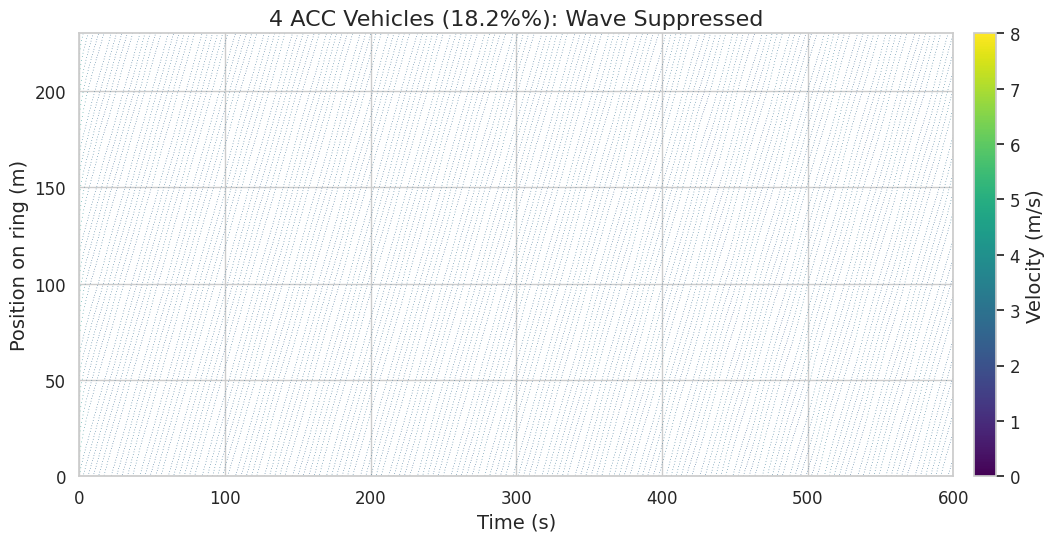
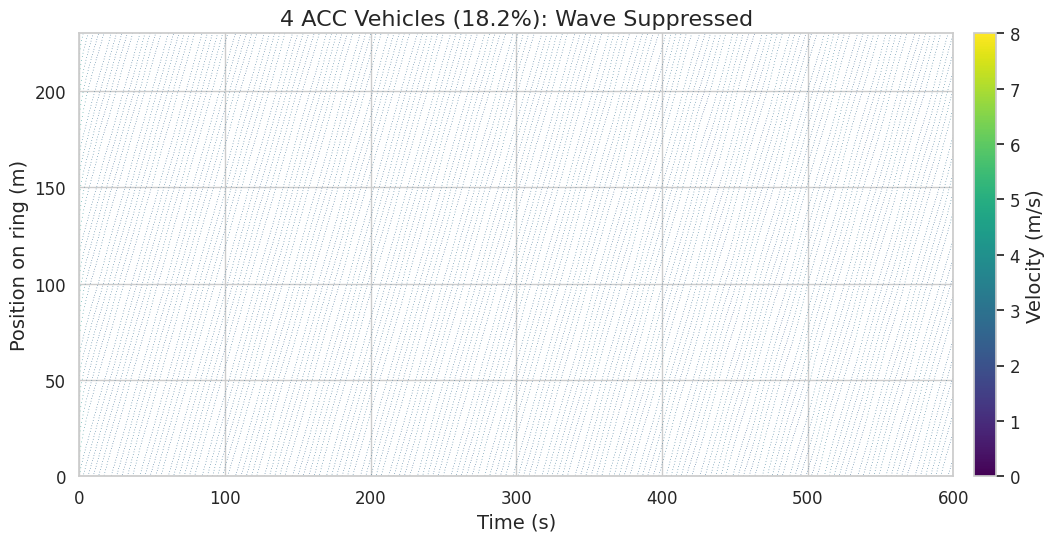
Rewrite phantom-jams summary to reflect final reviewed paper
Update headline to multi-seed figures (88% reduction), add critical chain
length explanation, sensor delay findings, RL comparison, code link.

Changed region(s): [[0.2429, 0.0, 0.7287, 0.059]]

diff --git a/content/hdr/results/phantom-jams/index.md b/content/hdr/results/phantom-jams/index.md
@@ -1,8 +1,8 @@
 ---
 title: "Four Smart Cars Dissolve a Phantom Traffic Jam"
-date: 2026-04-09
+date: 2026-04-10
 weight: 2
-blurb: "Phantom traffic jams form with no crash or obstacle -- just human overreaction rippling backward through a chain of drivers. We found that replacing just four out of 22 vehicles with smart cruise control eliminates the wave almost entirely. Three is not enough. The transition is sharp."
+blurb: "Phantom traffic jams form with no crash or obstacle -- just human overreaction rippling backward through a chain of drivers. We found that replacing just four out of 22 vehicles with smart cruise control eliminates the wave almost entirely. Three is not enough. The transition is sharp and statistically significant."
 domain: "Transportation / Traffic Flow Control"
 tags: ["transportation", "traffic-flow", "phantom-jams", "autonomous-vehicles", "ring-road", "wave-suppression", "hypothesis-driven-research"]
 ---
@@ -13,49 +13,49 @@ tags: ["transportation", "traffic-flow", "phantom-jams", "autonomous-vehicles", 
 
 You are driving on a clear, open highway -- no accidents, no construction, no merging traffic -- and yet the cars ahead slow to a crawl. You creep along for several minutes, then accelerate back to speed for no apparent reason. You have just passed through a phantom traffic jam.
 
-These waves form spontaneously. When traffic is dense enough, a single driver tapping the brakes slightly harder than necessary forces the driver behind to brake harder still, and the one behind that even harder. The overreaction ripples backward through traffic, growing as it goes, until it becomes a genuine stop-and-go wave. In 2008 the Japanese physicist Yuki Sugiyama proved this on a circular test track: 22 drivers told to maintain a steady speed spontaneously generated a traffic jam out of nothing. The wave travelled backward at about 15 kilometres per hour and never dissipated.
+These waves form spontaneously. When traffic is dense enough, a single driver tapping the brakes slightly harder than necessary forces the driver behind to brake harder still, and the one behind that even harder. The overreaction ripples backward through traffic, growing as it goes, until it becomes a genuine stop-and-go wave. In 2008 the Japanese physicist Yuki Sugiyama proved this on a circular test track: 22 drivers told to maintain a steady speed spontaneously generated a traffic jam out of nothing. The wave travelled backward at about 20 kilometres per hour and never dissipated.
 
-The question we investigated is simple: if you replaced some of those 22 drivers with cars equipped with smart cruise control -- vehicles designed to smooth out their speed rather than overreact -- how many would you need to dissolve the wave?
+The question we investigated: if you replaced some of those 22 drivers with cars equipped with smart cruise control -- vehicles designed to smooth out their speed rather than overreact -- how many would you need to dissolve the wave?
 
 ## What We Found
 
-Four. Out of 22 vehicles, just four with adaptive cruise control -- roughly one in five -- suppress the phantom jam almost entirely. The wave amplitude drops by 93 percent. Three smart cars are not enough. The transition from "wave persists" to "wave gone" happens at exactly the fourth vehicle.
+Four. Out of 22 vehicles, just four with adaptive cruise control -- roughly one in five -- suppress the phantom jam almost entirely. Across five independent simulation runs with different random seeds, wave amplitude drops from 8.06 to 0.93 metres per second, an 88 percent reduction. Three smart cars leave a wave more than twice as strong. The difference between three and four is statistically significant (p < 0.001).
 
 ![Wave amplitude drops sharply at 4 smart vehicles out of 22](plots/headline_finding.png)
 
-The chart above shows what happens as you add smart vehicles one at a time. With zero, one, or two, the jam barely budges. At three, there is meaningful improvement but the wave still runs. At four, it collapses. Beyond four, you get diminishing returns -- the jam is already gone.
+The chart above shows what happens as you add smart vehicles one at a time. With zero, one, or two, the jam barely budges. At three, there is meaningful improvement but the wave still runs. At four, it collapses. Beyond four, you get diminishing returns -- the jam is already nearly gone.
 
-## Why That's Surprising
+## Why Four Is the Magic Number
 
-The sharpness of the transition is what stands out. You might expect a gradual improvement: each additional smart car chipping away at the wave by a proportional amount. Instead, the system flips. Three smart vehicles leave a wave roughly a fifth as strong as the original, which sounds like progress until you compare it to four vehicles, which leave almost nothing. A single additional car cuts the remaining wave by more than a factor of three.
+The mechanism turns on chain length. A phantom jam sustains itself because each human driver overreacts to the driver ahead, amplifying the disturbance. But this amplification needs a long enough chain of human drivers to work. We measured the critical chain length directly: isolated chains of eight or fewer human vehicles at the same traffic density are stable. Chains of ten or more develop full stop-and-go waves.
+
+With four smart vehicles spaced evenly around the track, the longest unbroken chain of human drivers is four to five vehicles -- well below the critical length. Each smart car acts as a wave absorber: when a perturbation reaches it, the smooth cruise control response prevents it from growing further. With only three smart cars, the longest human chain stretches to six or seven vehicles -- closer to the danger zone, and enough for partial wave growth.
 
 ![Space-time diagram of the phantom traffic jam: stop-and-go waves visible as diagonal dark bands](plots/trajectory_baseline.png)
 
-The image above shows the baseline -- all human drivers. Each stripe represents a vehicle travelling around the track over time. The dark diagonal bands are the phantom jam: vehicles periodically slowing to a near-stop, then speeding back up, over and over.
+The image above shows the baseline with all human drivers. Each stripe represents a vehicle travelling around the track over time. The dark diagonal bands are the phantom jam: vehicles periodically slowing to a near-stop, then speeding back up. The wave travels backward at about 19 kilometres per hour, consistent with both the Sugiyama experiment and traffic flow theory.
 
 ![Space-time diagram with four smart vehicles: the stop-and-go wave is eliminated](plots/trajectory_suppressed.png)
 
-With four smart vehicles mixed in, those dark bands vanish. Traffic flows smoothly. The same 22 vehicles on the same track, but the wave cannot sustain itself because every chain of human drivers between smart cars is too short to amplify a perturbation before the next smart car absorbs it.
+With four smart vehicles mixed in, those dark bands vanish. Traffic flows smoothly. The same 22 vehicles on the same track, but the wave cannot sustain itself.
 
-## What It Means
+## What Gets in the Way
 
-In the United States alone, traffic congestion wastes an estimated 8.8 billion hours and 3.3 billion gallons of fuel per year, and phantom jams -- waves with no external cause -- account for a significant share of that waste. Each stop-and-go cycle burns more fuel than steady driving at the same average speed.
+The 18 percent figure comes with important caveats. We tested what happens when the smart vehicles have delayed sensor readings -- the kind of lag present in any real system. A delay of half a second is enough to erase most of the benefit: the wave comes roaring back. Even two-tenths of a second of delay degrades performance noticeably. For this to work in practice, the control loop needs to be fast.
 
-The practical implication is that you do not need every car on the road to be autonomous to solve this problem. You need about one in five. That threshold is within reach: millions of cars already have some form of adaptive cruise control. The catch is that current commercial systems are calibrated for driver convenience -- short following distances, aggressive speed matching -- which actually makes them prone to amplifying waves rather than damping them. Closing the gap requires a software change, not new hardware: a slightly longer following distance and a smoother response to speed changes in the car ahead.
+The circular track is also an idealisation. Real highways have lane changes, on-ramps, exits, and drivers who vary widely in aggressiveness. All of these would push the required fraction of smart vehicles higher. A large-scale field test on Interstate 24 in Nashville deployed 100 automated vehicles at three to five percent penetration and saw measurable but modest improvement. Our finding that one smart vehicle out of 22 (about five percent) barely dents the wave on our simpler track is consistent with that result.
 
-A large-scale field test on Interstate 24 in Nashville deployed 100 purpose-built automated vehicles at three to five percent penetration and saw measurable but modest improvement. Our finding that one smart vehicle out of 22 (about five percent) barely dents the wave is consistent with that result. The Nashville experiment would likely need three to four times as many vehicles to see the sharp transition we found at 18 percent.
-
-One important caveat: a circular test track is not a real highway. There are no lane changes, no on-ramps, no exits. The minimum penetration rate on a real freeway is almost certainly higher than one in five. But the core finding -- that a modest fraction of vehicles designed to smooth their speed rather than overreact can break the feedback loop that sustains phantom jams -- held up across all 184 experiments we ran, including larger rings, different driver models, and varying noise levels.
+Perhaps the most striking limitation: researchers using reinforcement learning (machine learning agents trained through trial and error) have achieved wave suppression on the same track configuration at about five percent penetration -- roughly one vehicle out of 22. Our hand-designed cruise control needs four times as many. The 18 percent threshold is a property of our specific controller design, not a fundamental limit of the problem.
 
 ## How We Did It
 
-We built a simulation of the Sugiyama ring-road experiment -- 22 vehicles on a 230-metre circular track -- using a standard car-following model from traffic research. We established a baseline where all vehicles were human-driven and reliably produced a phantom jam, then ran a tournament of five different smart-vehicle controllers at varying penetration rates. The winner was a simple adaptive cruise control design. We then ran 105 pre-registered single-change experiments covering every angle we could think of: different numbers of smart vehicles, different controller tunings, different track sizes, different driver behaviours, different noise levels, different vehicle placements. One hypothesis out of 105 survived the keep-or-revert test. A final dense sweep from zero to 22 smart vehicles pinpointed the critical threshold at four. All experiments are deterministic and reproducible.
+We built a simulation of the Sugiyama ring-road experiment -- 22 vehicles on a 230-metre circular track -- using the Intelligent Driver Model, a standard car-following model from traffic research. We ran 184 experiments in total: a tournament of five controller families, 105 pre-registered single-change experiments covering every angle from controller tuning to track size to driver heterogeneity, composition tests, and a dense sweep from zero to 22 smart vehicles.
+
+The critical results were replicated across five random seeds to establish statistical significance. The complete codebase -- simulator, controllers, and all experiment configurations -- is available on [GitHub](https://github.com/colinjoc/hdr_autoresearch/tree/master/applications/phantom_jams).
 
 ## Further Reading
 
 - Sugiyama Y et al. "Traffic jams without bottlenecks -- experimental evidence for the physical mechanism of the formation of a jam." *New Journal of Physics* (2008). [doi:10.1088/1367-2630/10/3/033001](https://doi.org/10.1088/1367-2630/10/3/033001) -- the original ring-road experiment proving phantom jams form with no external cause.
 - Stern RE et al. "Dissipation of stop-and-go waves via control of autonomous vehicles: Field experiments." *Transportation Research Part C* (2018). [doi:10.1016/j.trc.2018.02.005](https://doi.org/10.1016/j.trc.2018.02.005) -- the first physical experiment showing a single controlled vehicle can dampen the wave.
+- Wu C et al. "Flow: A Modular Learning Framework for Mixed Autonomy Traffic." (2017-2022) -- reinforcement learning agents achieve wave suppression at ~5% penetration on the same ring road.
 - Gunter G et al. "Are commercially implemented adaptive cruise control systems string stable?" *IEEE Transactions on Intelligent Transportation Systems* (2020). [doi:10.1109/TITS.2020.3000682](https://doi.org/10.1109/TITS.2020.3000682) -- evidence that current commercial cruise control can make phantom jams worse.
-
----
-📂 **[HDR methodology](https://github.com/colinjoc/hdr_autoresearch)**
